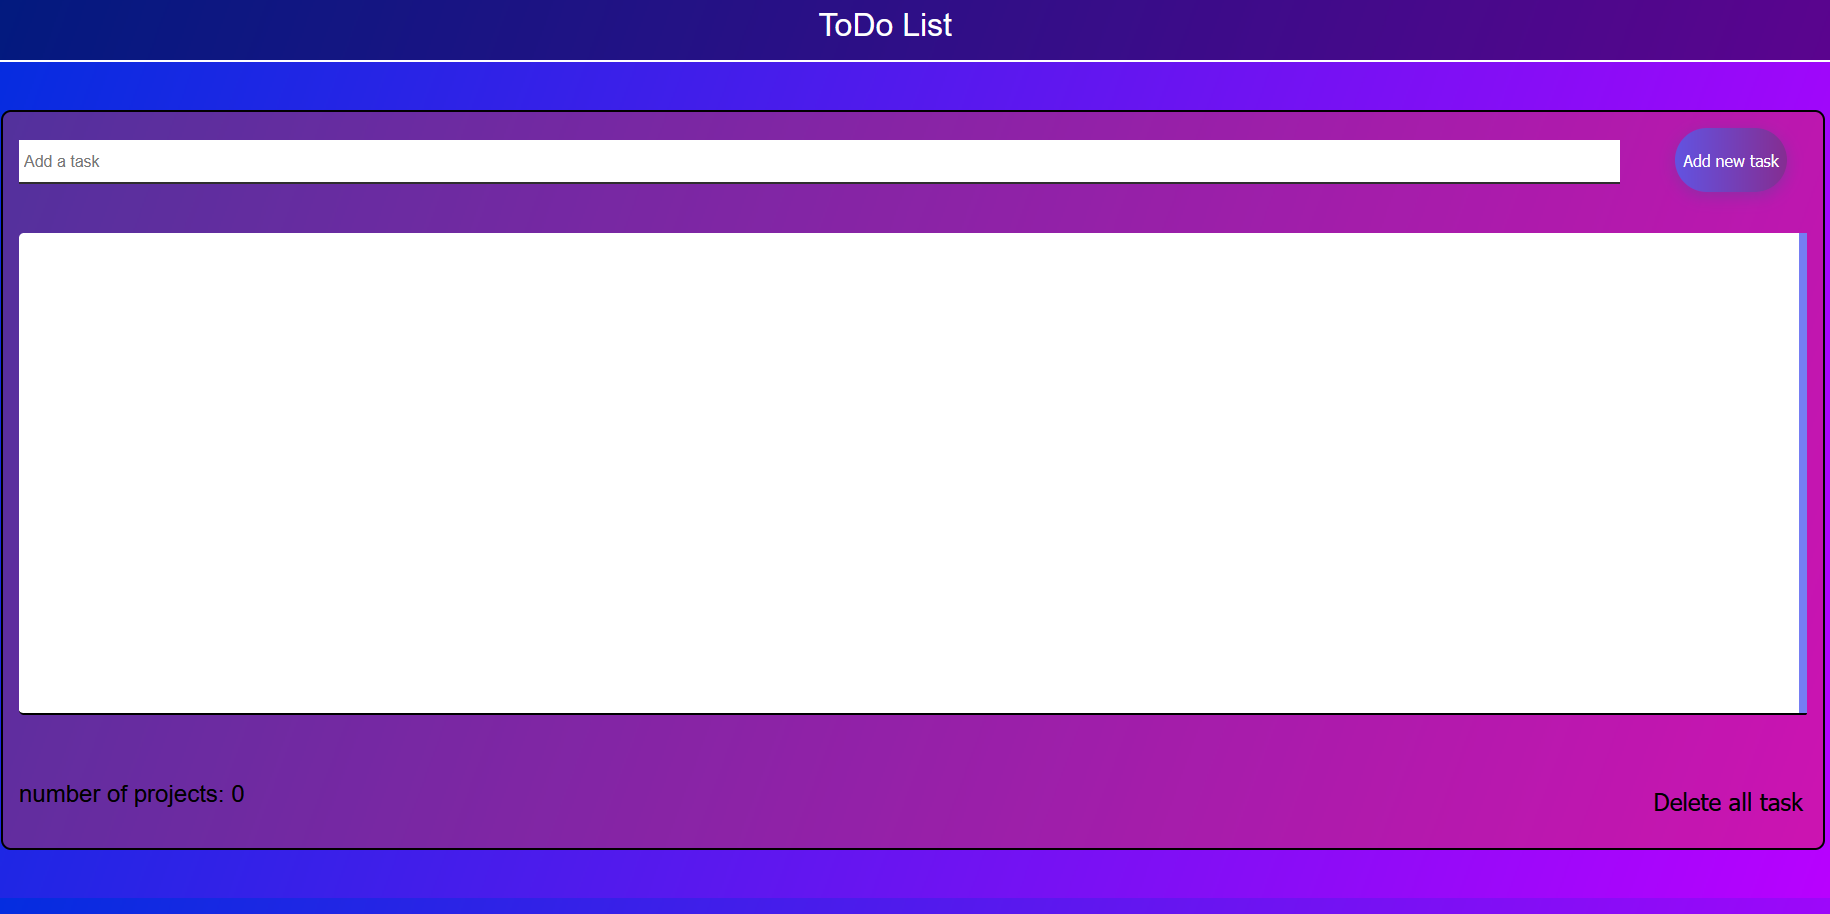
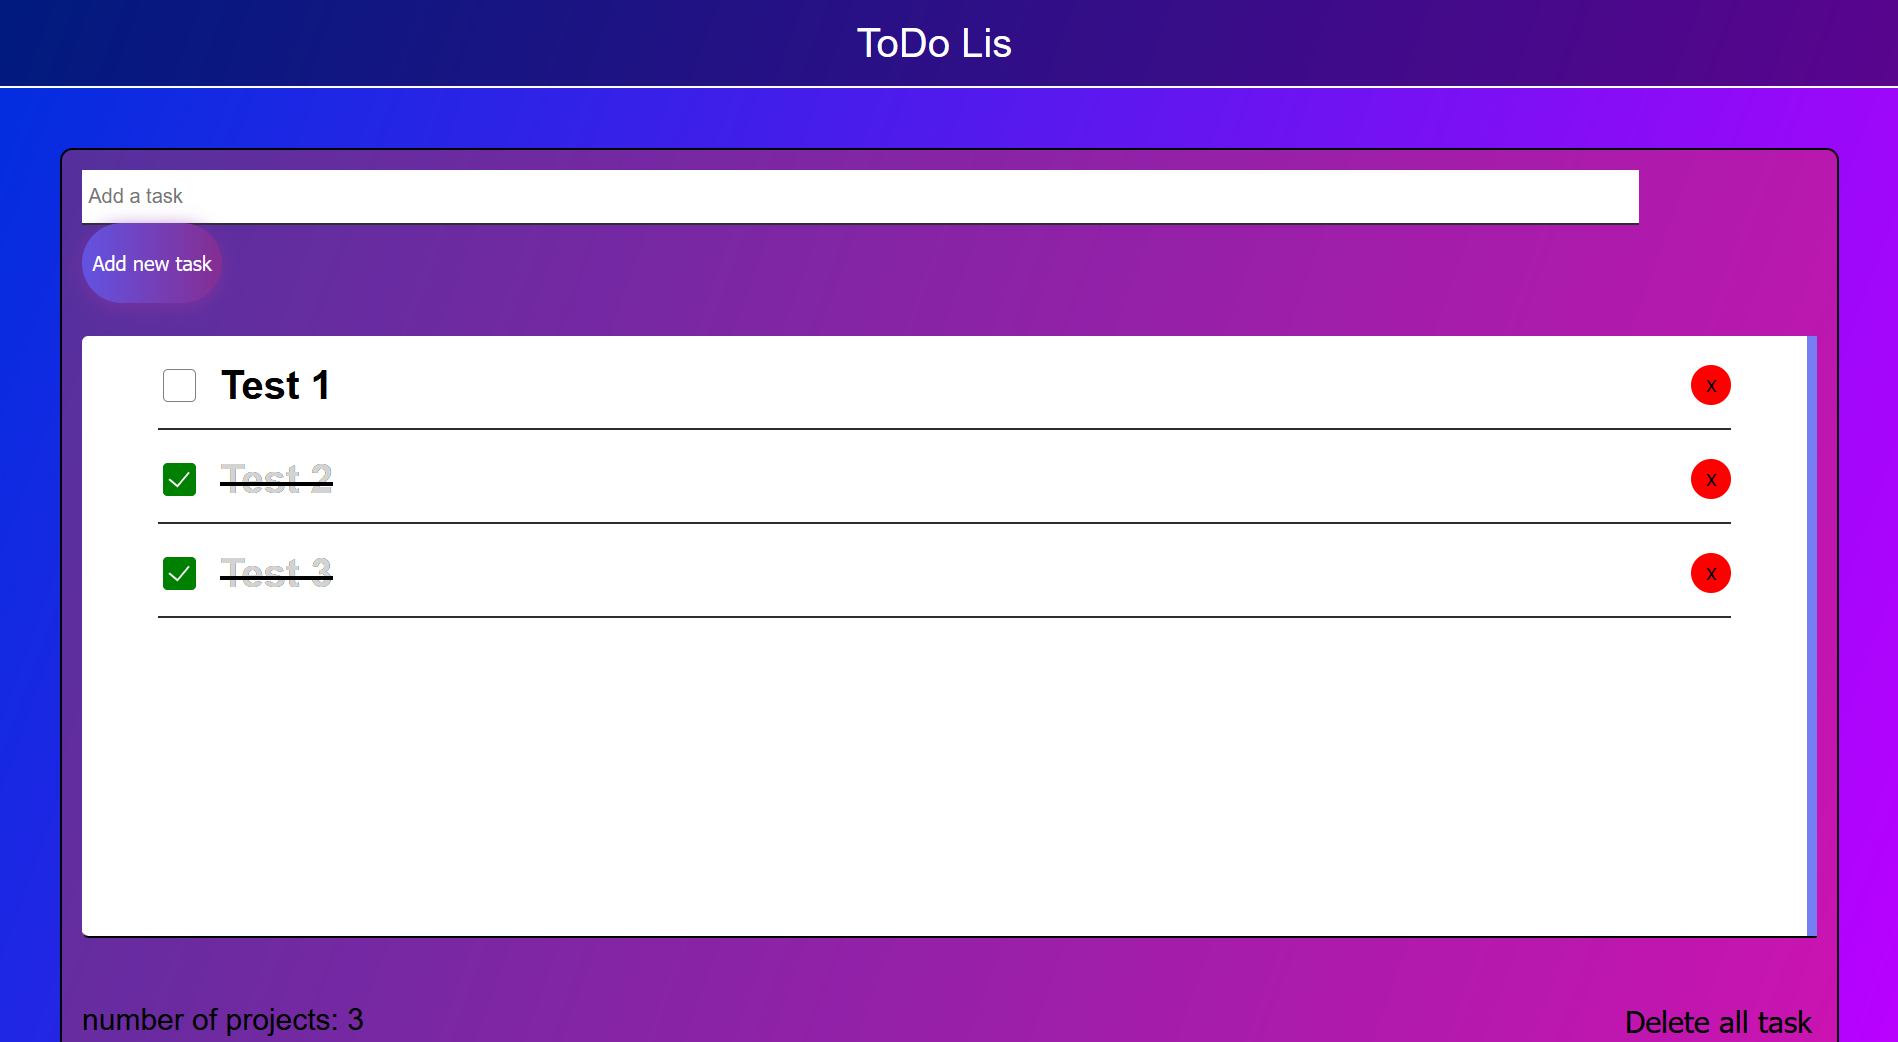
add link and better image for toDoLisT project

diff --git a/project/project.html b/project/project.html
@@ -41,13 +41,13 @@
                 </div>
             </div>
         </a>
-        <div class="https://hidekashilawliet.github.io/ToDoList/">
+        <a href="https://hidekashilawliet.github.io/ToDoList/" target="_blank">
             <div class="card">
                 <div class="projectTitle"> Work in progress </div>
                 <img src="./assets/toDoList.png" alt="ToDoList app" width="300px" height="200px" />
                 <div class="projectDesc">Just a todo list with app</div>
             </div>
-        </div>
+        </a>
     </div>
     <script src="project.js" async defer></script>
 </body>
